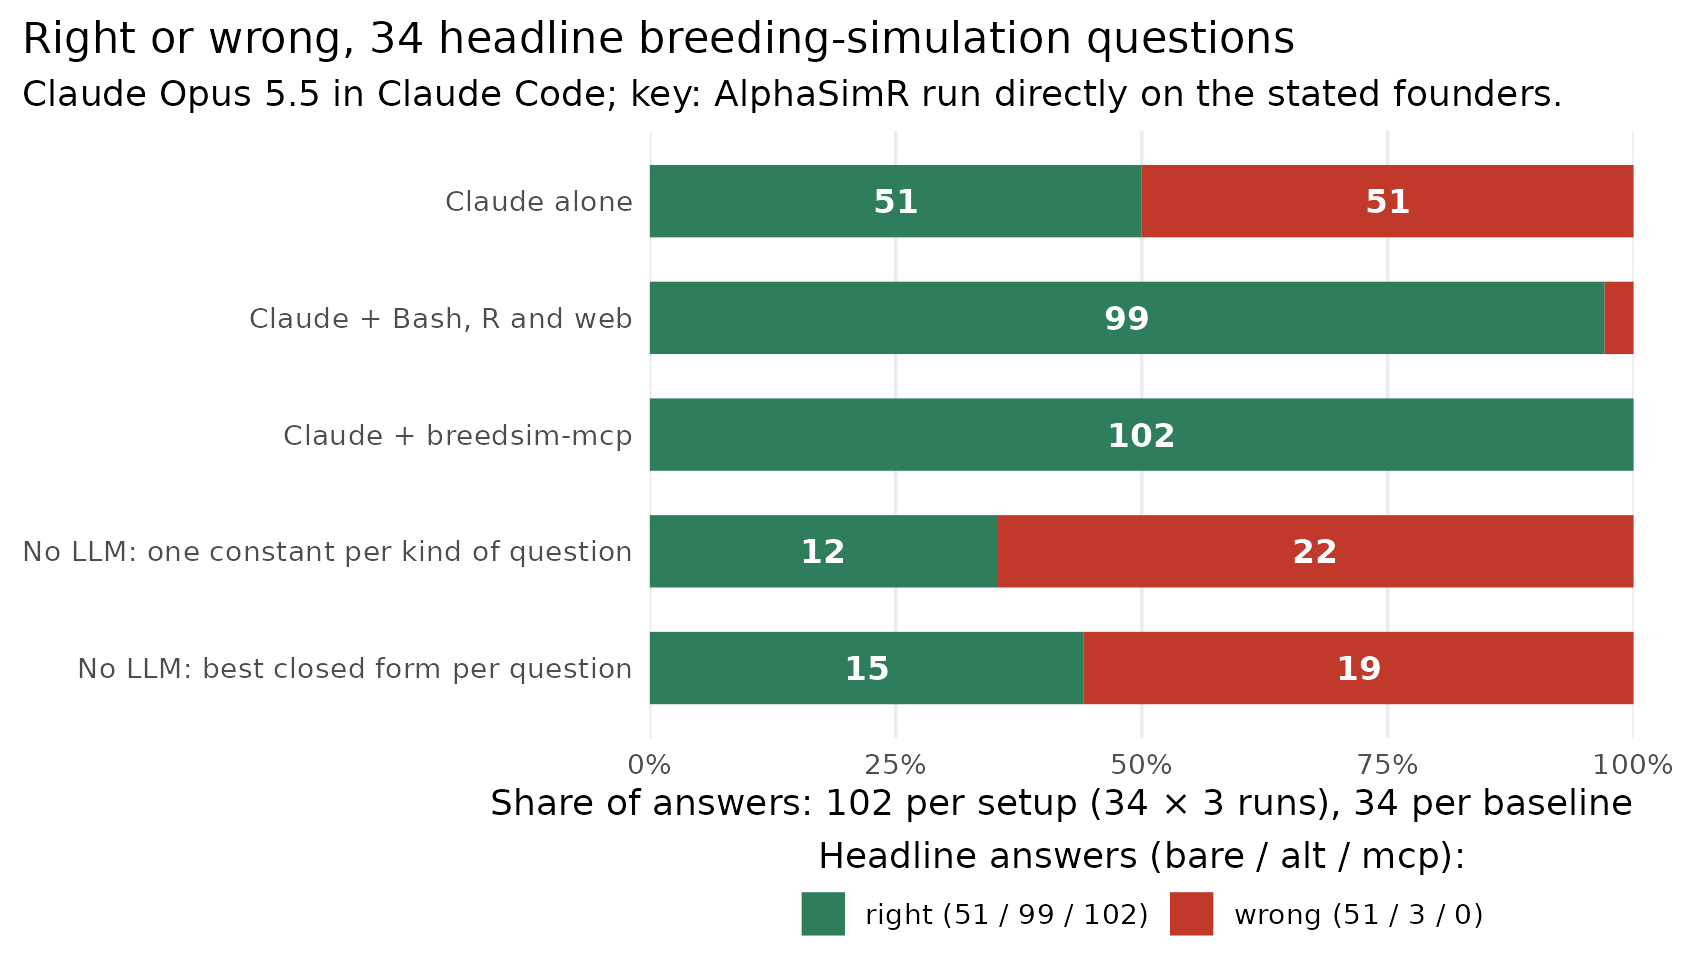
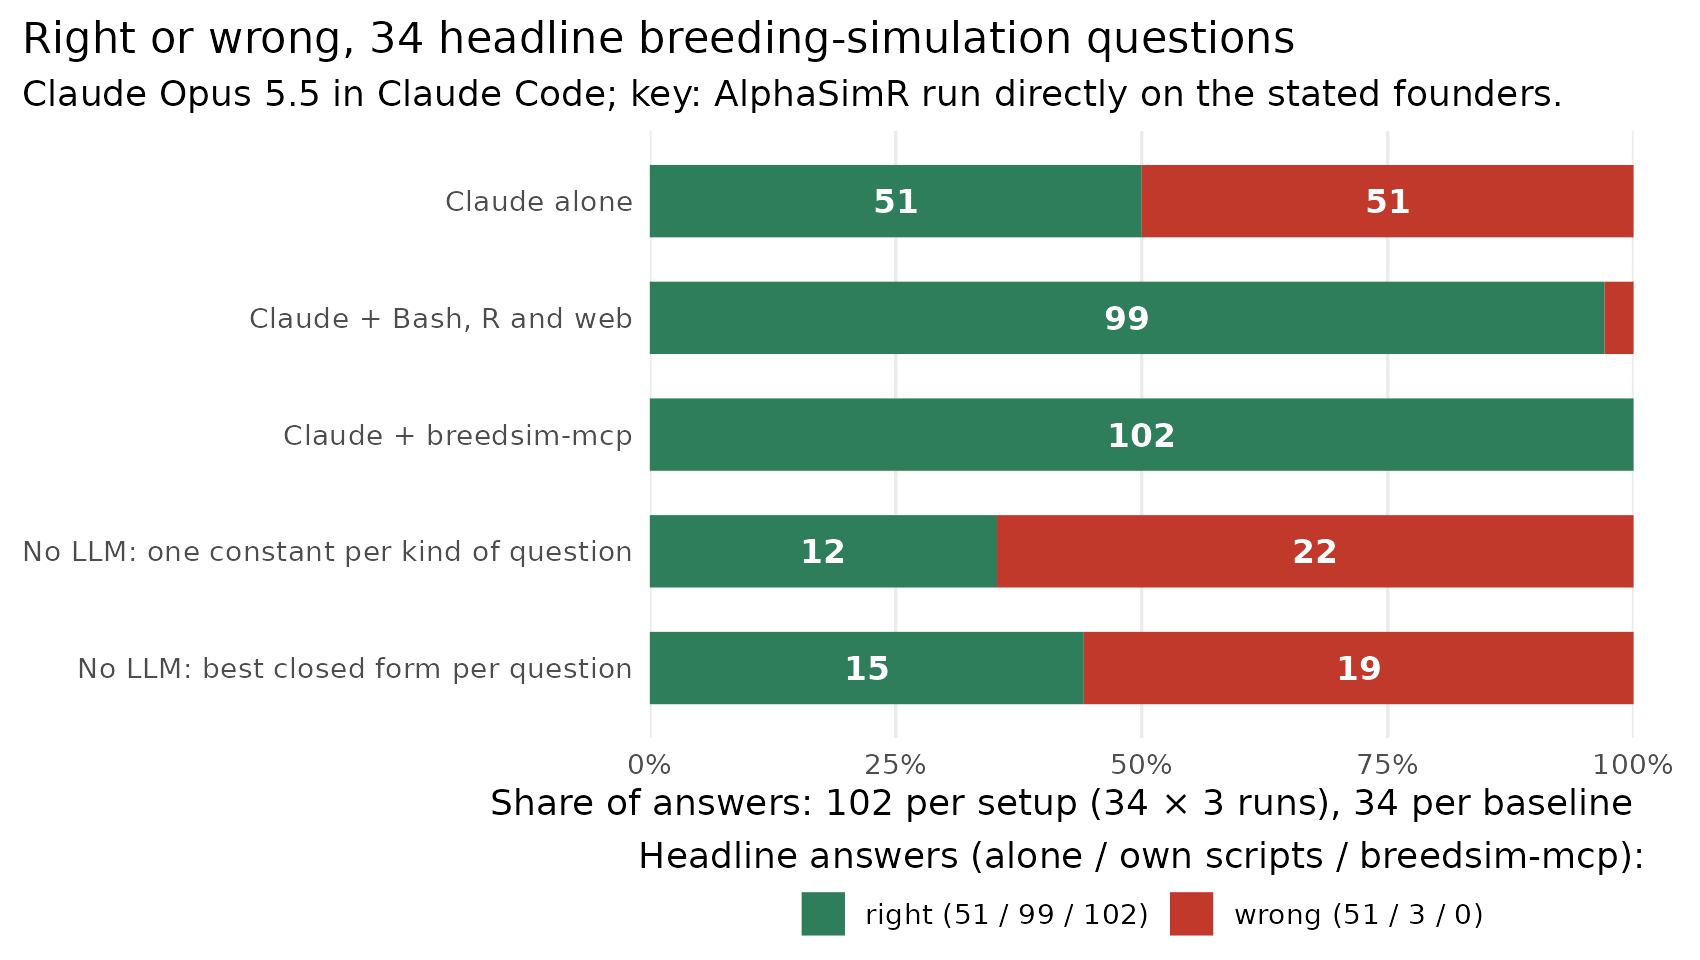
agent_qa chart: plain setup names in the legend title; alt text matches the chart
The legend title read "(bare / alt / mcp)", the internal arm keys; it now
reads "(alone / own scripts / breedsim-mcp)". Only that line of pixels
changed (diff bbox y 841-875 of 960); data, size and colors are unchanged.
The benchmark README alt text no longer says "declined", which no bar shows.

Changed region(s): [[0.3741, 0.875, 0.9665, 0.9062]]

diff --git a/benchmarks/agent_qa/README.md b/benchmarks/agent_qa/README.md
@@ -12,7 +12,7 @@ much, while time is not separated. The main limitation is that each question
 spells out the AlphaSimR calls, so this tests running a stated simulation, not
 designing one.
 
-![Right, wrong or declined per setup and per no-LLM baseline](agent_qa.png)
+![Right and wrong answers per setup and per no-LLM baseline, 34 headline questions](agent_qa.png)
 
 ## Results
 
